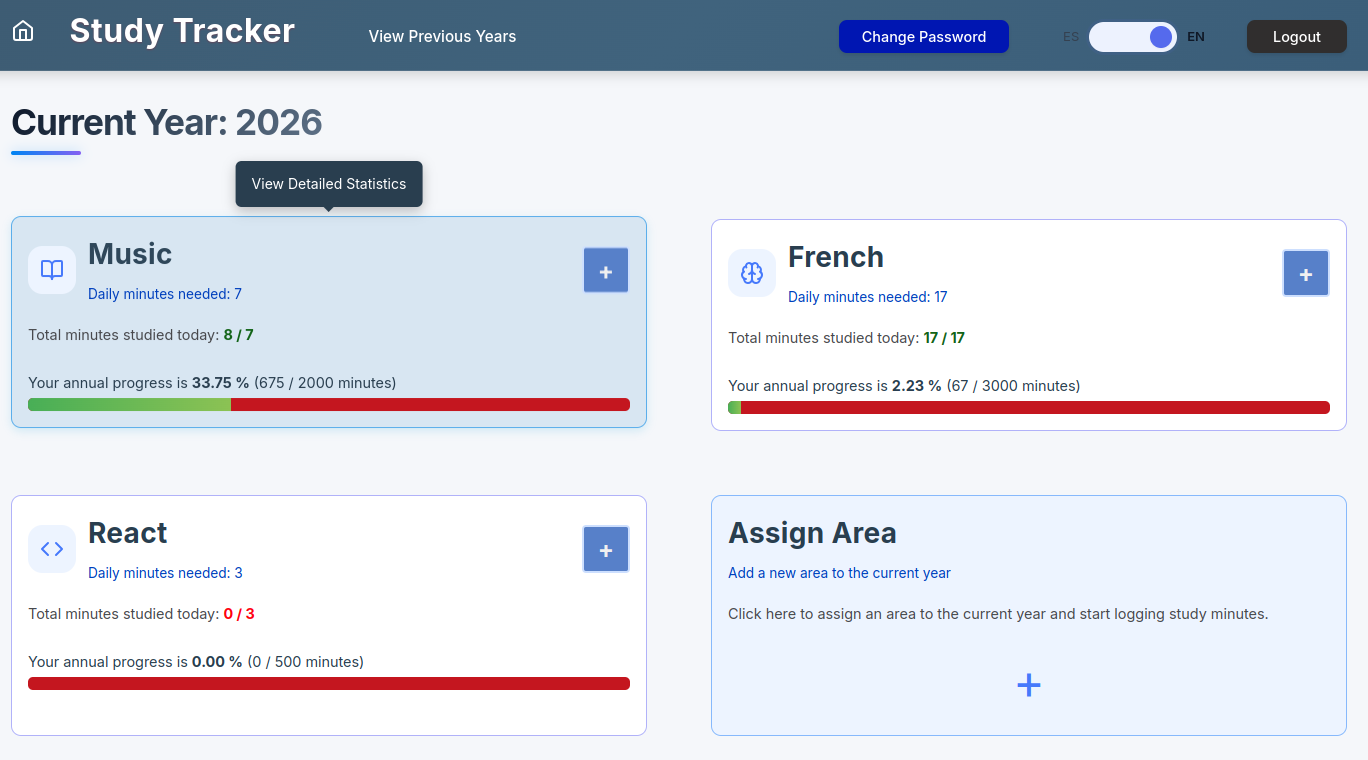
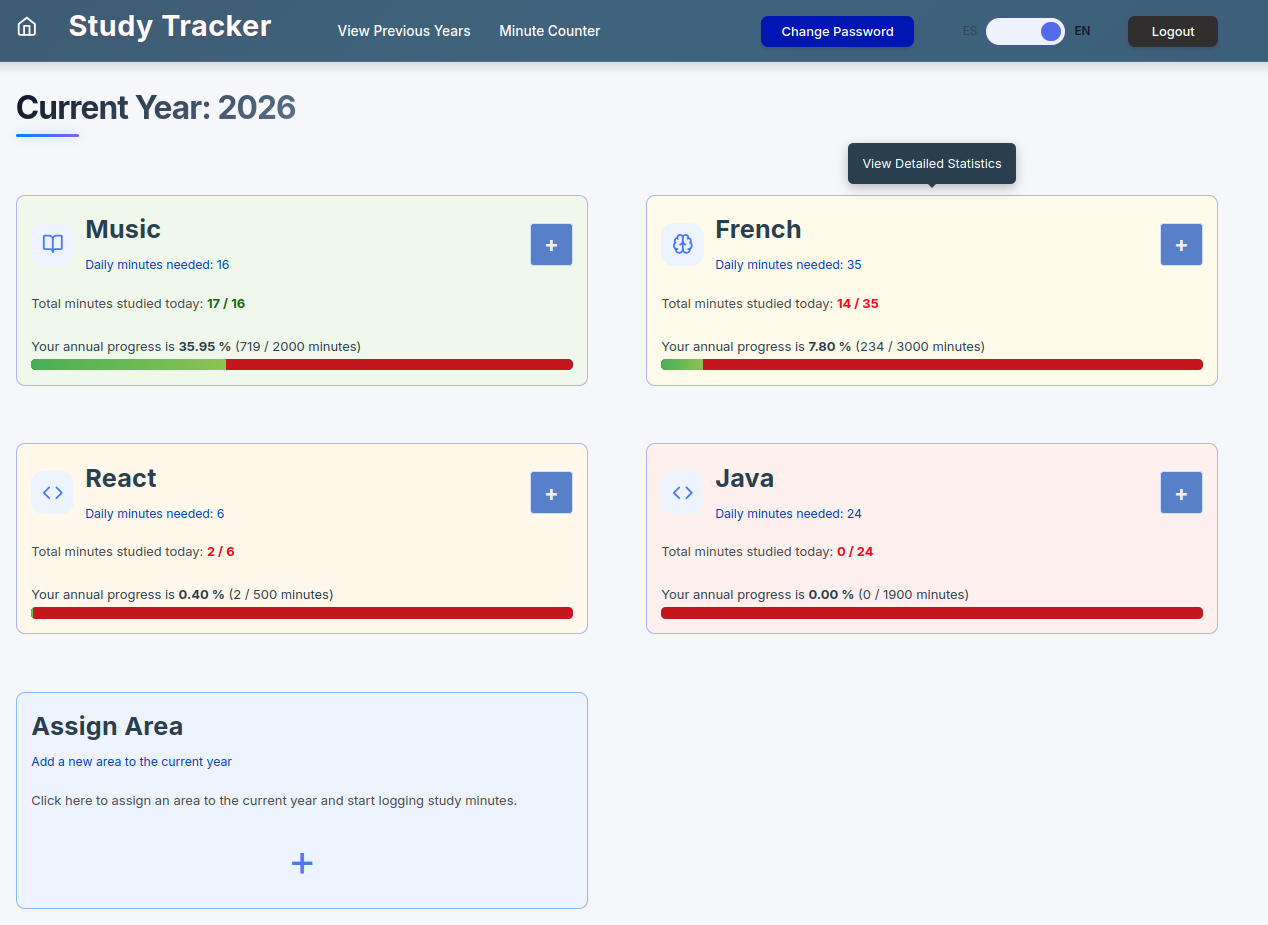
Develop (#50)
* feat(frontend): :lipstick: display a different background color on the cards based on daily progress

* docs(docs): :memo: update readme

diff --git a/frontend/src/pages/Home/Home.tsx b/frontend/src/pages/Home/Home.tsx
@@ -26,6 +26,22 @@ import { useAuth } from '../../context/auth.context';
 
 import AdminHome from '../Admin/AdminHome';
 
+const interpolateColor = (start: string, end: string, amount: number) => {
+  const startRgb = start.match(/[\da-f]{2}/gi)?.map((value) => parseInt(value, 16)) ?? [];
+  const endRgb = end.match(/[\da-f]{2}/gi)?.map((value) => parseInt(value, 16)) ?? [];
+  const channels = startRgb.map((value, index) => Math.round(value + (endRgb[index] - value) * amount));
+
+  return `#${channels.map((value) => value.toString(16).padStart(2, '0')).join('')}`;
+};
+
+const getDailyGoalColor = (studiedMinutes: number, dailyGoal: number) => {
+  const progress = dailyGoal <= 0 ? 1 : Math.min(Math.max(studiedMinutes / dailyGoal, 0), 1);
+
+  return progress < 0.5
+    ? interpolateColor('#fff0f0', '#fffde7', progress * 2)
+    : interpolateColor('#fffde7', '#eff8e9', (progress - 0.5) * 2);
+};
+
 export default function Home() {
 
   // Home page state
@@ -131,6 +147,7 @@ export default function Home() {
         <Grid columns={2}>
           {topics.map((topic: any) => {
             const progress = topic.progressPercentage;
+            const dailyGoalColor = getDailyGoalColor(topic.totalTodayPractices, topic.minutesPerDay);
             const topicIcon = topicIcons.find((item) => item.name === topic.icon)?.icon;
             const IconComponent = topicIcon ? topicIcon : undefined;
 
@@ -140,7 +157,7 @@ export default function Home() {
               return (
                 <>
                   {t('dashboard.today-total-minutes')} {' '}
-                  <b style={{ color: color, fontWeight: 'bold'}}>{topic.totalTodayPractices.toFixed(0)} / {topic.minutesPerDay.toFixed(0)}</b>
+                  <b style={{ color: color, fontWeight: 'bold' }}>{topic.totalTodayPractices.toFixed(0)} / {topic.minutesPerDay.toFixed(0)}</b>
                 </>
               );
             }
@@ -156,6 +173,7 @@ export default function Home() {
                 message={message()}
                 icon={IconComponent ? <IconComponent /> : undefined}
                 button={<AddPracticeButton onClick={() => openPracticeModal(topic.yearTopicId)} tooltip={t('dashboard.track-study-time')} />}
+                backgroundColor={dailyGoalColor}
               >
                 <ProgressBar progress={progress} text_before={t('dashboard.your-progress-is')} text_after={` (${topic.practicedMinutes} / ${topic.goalMinutes} ${t('dashboard.minutes')})`} />
               </Card>

diff --git a/frontend/src/components/ui/Card/Card.tsx b/frontend/src/components/ui/Card/Card.tsx
@@ -13,6 +13,7 @@ type Props = {
   highlight?: boolean;
   icon?: React.ReactNode;
   hideTooltip?: boolean;
+  backgroundColor?: string;
 };
 
 export default function Card({
@@ -26,7 +27,8 @@ export default function Card({
   onClick,
   highlight,
   icon,
-  hideTooltip
+  hideTooltip,
+  backgroundColor
 }: Props) {
   const [showTooltip, setShowTooltip] = useState(false);
 
@@ -42,7 +44,8 @@ export default function Card({
         style={{
           opacity: disabled ? 0.5 : 1,
           cursor: disabled ? 'not-allowed' : 'pointer',
-          pointerEvents: disabled ? 'none' : 'auto'
+          pointerEvents: disabled ? 'none' : 'auto',
+          backgroundColor
         }}
       >
         <div className={styles.cardHeader}>

diff --git a/README.md b/README.md
@@ -171,6 +171,7 @@ Study Tracker is currently in the MVP (Minimum Viable Product) stage and is acti
 - [x] Dockerized development environment
 - [x] Dockerized production environment
 - [x] Counter tool for study sessions
+- [X] Display different background colors on the cards based on daily study progress
 
 ### Planned
 
